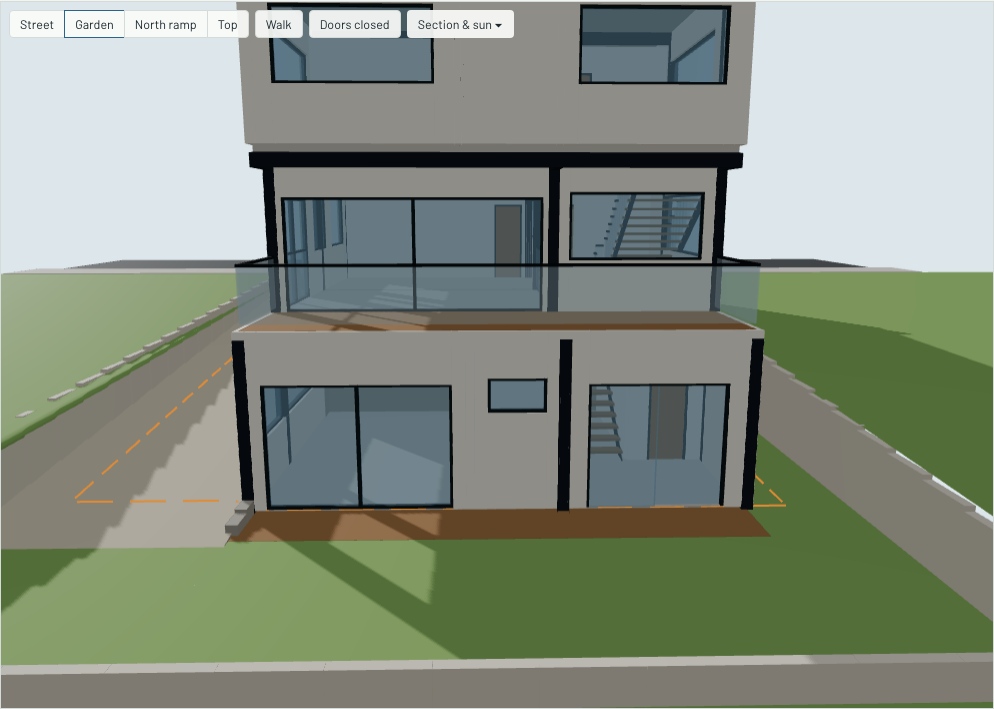
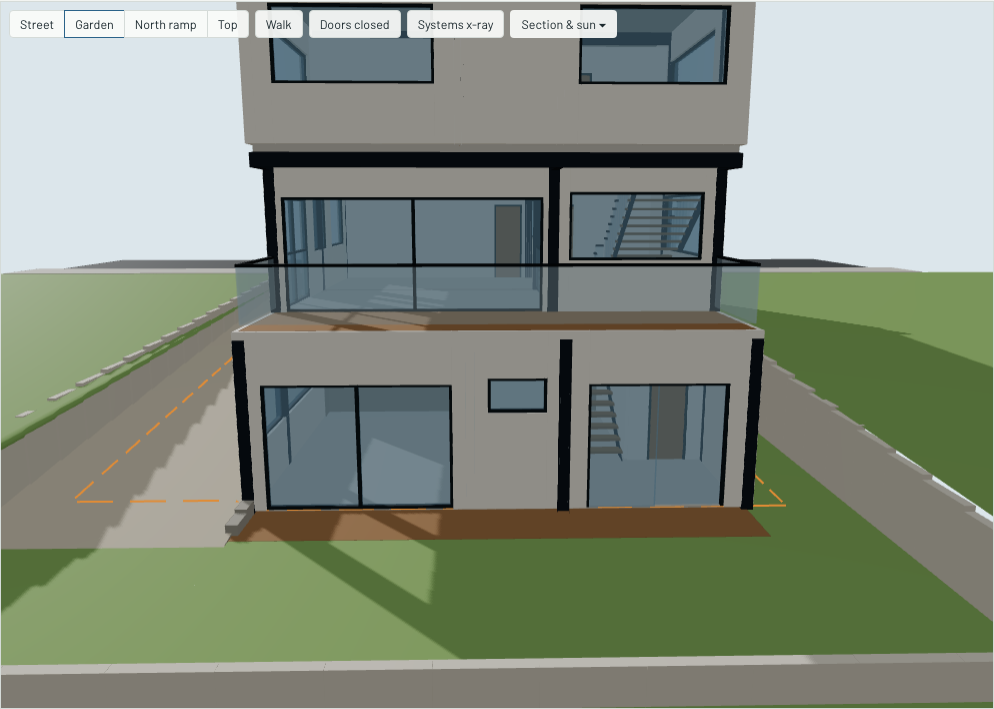
03: plumbing — fixtures, auto-routed sewage, water and rain networks, NBR checks, x-ray, riser diagram, sewer section, schedules
Carry-overs: filled section cuts, stair/retaining-wall note (docs/HANDOFF.md).

Changed region(s): [[0.4366, 0.0, 0.6237, 0.0621]]

diff --git a/e2e/plumbing.spec.ts b/e2e/plumbing.spec.ts
@@ -1,0 +1,69 @@
+import { expect, test, type Page } from '@playwright/test';
+
+type Hook = { frames(): number };
+const ready = (page: Page) => page.waitForFunction(() => ((window as unknown as { __casa3d?: Hook }).__casa3d?.frames() ?? 0) > 10, null, { timeout: 30000 });
+
+test('plumbing on the plan: moving the kitchen sink 1 m re-routes its branch and the checks update', async ({ page }) => {
+  await page.goto('/');
+  await page.getByTestId('plumbing2d').check();
+  await expect(page.locator('[data-fixture="fx-kitchen-sink-01"]')).toBeVisible();
+  await page.evaluate(() => document.fonts.ready);
+  await page.screenshot({ path: 'docs/screens/03.png' });
+  const branch = () => page.locator('line.pipe2d.s-sewage[data-el^="sew-kitchen"]').evaluateAll((ls) => ls.map((l) => [l.getAttribute('x1'), l.getAttribute('y1'), l.getAttribute('x2'), l.getAttribute('y2')].join()).sort().join('|'));
+  const before = await branch();
+  await page.locator('[data-fixture="fx-kitchen-sink-01"]').click();
+  await expect(page.locator('.props h3')).toHaveText('Kitchen sink');
+  await page.getByTestId('fx-y').fill('7.30');
+  await page.getByTestId('fx-y').press('Enter');
+  await expect(page.getByTestId('fx-y')).toHaveValue('7.30');
+  expect(await branch()).not.toBe(before);
+  await page.getByTestId('checks-toggle').click();
+  await page.getByRole('button', { name: 'Whole house' }).click();
+  await expect(page.getByRole('row', { name: /Slope · Kitchen line/ })).toContainText('lowest');
+  await expect(page.getByRole('row', { name: /Pipe size · Kitchen line/ })).toBeVisible();
+  // undo puts the sink back
+  await page.keyboard.press('ControlOrMeta+z');
+  expect(await branch()).toBe(before);
+});
+
+test('drag a fixture on the plan', async ({ page }) => {
+  await page.goto('/');
+  await page.getByTestId('plumbing2d').check();
+  const g = page.locator('[data-fixture="fx-kitchen-sink-01"] circle');
+  const b = (await g.boundingBox())!;
+  await page.mouse.move(b.x + b.width / 2, b.y + b.height / 2);
+  await page.mouse.down();
+  for (let i = 1; i <= 6; i++) await page.mouse.move(b.x + b.width / 2 - i * 6, b.y + b.height / 2 - i * 6);
+  await page.mouse.up();
+  await expect(page.locator('.props h3')).toHaveText('Kitchen sink');
+  expect(Number(await page.getByTestId('fx-x').inputValue())).toBeLessThan(8.33);
+});
+
+test('plumbing window: sewer section, sewer depth 3.5 m makes the lower level pass, schedule CSV', async ({ page }) => {
+  await page.goto('/');
+  await page.getByTestId('plumbing').click();
+  await expect(page.getByTestId('riser')).toBeVisible();
+  await page.getByRole('tab', { name: 'Sewer section' }).click();
+  await expect(page.getByTestId('sewer-section')).toContainText('lift station needed');
+  await page.locator('.modal .box').screenshot({ path: 'docs/screens/03-sewer-section.png' });
+  await page.getByTestId('sewer-depth').fill('3.5');
+  await page.getByTestId('sewer-depth').press('Enter');
+  await expect(page.getByTestId('sewer-section')).toContainText('works');
+  await page.getByRole('tab', { name: 'Schedule' }).click();
+  const [download] = await Promise.all([page.waitForEvent('download'), page.getByTestId('csv').click()]);
+  expect(download.suggestedFilename()).toBe('casa-123-v3-plumbing-schedule.csv');
+  await page.keyboard.press('Escape');
+  await page.getByTestId('checks-toggle').click();
+  await page.getByRole('button', { name: 'Whole house' }).click();
+  await expect(page.getByRole('row', { name: /Lower level drains to the street by gravity/ })).toContainText('gravity works');
+});
+
+test('3D systems x-ray', async ({ page }) => {
+  await page.goto('/');
+  await page.getByTestId('view-3d').click();
+  await ready(page);
+  await page.getByTestId('xray').click(); // turns to an overview from the north-front corner
+  await page.waitForTimeout(900);
+  await page.getByTestId('scene3d').screenshot({ path: 'docs/screens/03-xray.png' });
+  await expect(page.getByTestId('xray')).toHaveAttribute('aria-pressed', 'true');
+});

diff --git a/e2e/v3.spec.ts b/e2e/v3.spec.ts
@@ -3,14 +3,14 @@ import { expect, test, type Page } from '@playwright/test';
 type Hook = { frames(): number; project(x: number, y: number, z: number): [number, number] };
 const ready = (page: Page) => page.waitForFunction(() => ((window as unknown as { __casa3d?: Hook }).__casa3d?.frames() ?? 0) > 10, null, { timeout: 30000 });
 
-test('Version 3 opens by default: no garage, patio and carport, about 78 m², one check to confirm', async ({ page }) => {
+test('Version 3 opens by default: no garage, patio and carport, about 78 m², two checks to confirm', async ({ page }) => {
   await page.goto('/');
   await expect(page.getByRole('button', { name: 'Version 3' })).toHaveAttribute('aria-pressed', 'true');
   await expect(page.locator('text[data-room="Garage"]')).toHaveCount(0);
   await expect(page.getByTestId('gross')).toHaveText(/Version 3 · 78\.\d m² gross/);
   await expect(page.locator('rect.carport')).toHaveCount(1);
   await expect(page.getByTestId('checks-fail')).toHaveText('0 fail');
-  await expect(page.getByTestId('checks-confirm')).toHaveText('1 to confirm');
+  await expect(page.getByTestId('checks-confirm')).toHaveText('2 to confirm'); // carport (02b) and design rainfall (03)
   await page.getByTestId('checks-toggle').click();
   await expect(page.getByRole('row', { name: /Carport in the front setback/ })).toContainText('TO CONFIRM');
   await page.getByTestId('checks-toggle').click();

diff --git a/src/ui/Controls3D.tsx b/src/ui/Controls3D.tsx
@@ -66,7 +66,7 @@ export function Controls3D() {
         </div>
         <button className="small" aria-pressed={walk} onClick={() => set3d({ walk: !walk })} data-testid="walk">{walk ? 'Stop walking' : 'Walk'}</button>
         <button className="small" aria-pressed={doorsOpen} onClick={() => set3d({ doorsOpen: !doorsOpen })}>{doorsOpen ? 'Doors open' : 'Doors closed'}</button>
-        <button className="small" aria-pressed={xray} onClick={() => set3d({ xray: !xray })} data-testid="xray">Systems x-ray</button>
+        <button className="small" aria-pressed={xray} onClick={() => { set3d({ xray: !xray }); if (!xray) lookFrom([17, -9, 11], [4.3, 7.5, 0.5]); }} data-testid="xray">Systems x-ray</button>
         <button className="small ghost" onClick={() => setOpen(!open)} aria-expanded={open}>{open ? 'Less ▴' : 'Section & sun ▾'}</button>
       </div>
       {open && (

diff --git a/src/ui/Panels.tsx b/src/ui/Panels.tsx
@@ -427,7 +427,7 @@ export function ChecksBar() {
           {open ? '▾' : '▸'} Checks
         </button>
         <span className="pill ok">{sum.pass} pass</span>
-        {sum.warn > 0 && <span className="pill warn">{sum.warn} below target</span>}
+        {sum.warn > 0 && <span className="pill warn">{sum.warn} warning{sum.warn > 1 ? 's' : ''}</span>}
         {sum.confirm > 0 && <span className="pill confirm" data-testid="checks-confirm">{sum.confirm} to confirm</span>}
         <span className={'pill ' + (sum.fail ? 'bad' : 'muted')} data-testid="checks-fail">{sum.fail} fail</span>
         <span className="spacer" />

diff --git a/src/ui/PlanView.tsx b/src/ui/PlanView.tsx
@@ -377,7 +377,7 @@ function PlumbingOverlay({ p, level, selection, line, rect, px, py }: { p: impor
   const elev = (l: string) => p.levels.find((x) => x.id === l)?.elevation ?? 0;
   const order = ['LL', 'SL', 'UF', 'roof'];
   const i = order.indexOf(level);
-  const lo = i <= 0 ? -Infinity : elev(level) - 0.7, hi = i + 1 < order.length ? elev(order[i + 1]!) - 0.1 : Infinity;
+  const lo = i <= 0 ? -Infinity : elev(level) - 0.7, hi = i + 1 < order.length ? elev(order[i + 1]!) - 0.5 : Infinity;
   const o: ReactNode[] = [];
   for (const e of p.elements) {
     if (e.type !== 'PipeSegment') continue;

diff --git a/docs/DECISIONS.md b/docs/DECISIONS.md
@@ -37,3 +37,16 @@
 - 2026-09-29 (spec 02b) — New check status "to confirm" for rules only an authority can decide. It is never counted as a pass. Used for "Carport in the front setback".
 - 2026-09-29 (spec 02b) — Street-level gross area = sum of the rooms and the stair (was the outline rectangle; the same for Versions 1 and 2).
 - 2026-09-29 (spec 02b) — The room label goes in the roomiest part of a room (area × narrowest side), not just the biggest part, so it does not land in a 1.2 m passage.
+- 2026-10-01 (spec 03) — Plumbing is designed on Version 3 only (manager's note). Versions 1 and 2 have no fixtures or pipes; the Plumbing window says so.
+- 2026-10-01 (spec 03) — Pipes are generated by a router from the fixtures (right-angled trees to each root: stack, grease trap, lift station, riser, cistern), so moving a fixture re-routes at once and every pipe has DN, material, ends, slope, flow and load. A DN or material changed by hand is kept when the pipes re-route.
+- 2026-10-01 (spec 03) — Sewage elevations are worked out backwards from the minimum slopes (2 % for DN ≤ 75, 1 % for DN 100), so each fixture's branch starts just under its floor (0.45 m below the street level, 0.35 m below the upper floor, 0.25 m below the lower level). Falls are rounded up to 5 mm so the stored slope is never below the design slope. Runs shorter than 0.25 m are fittings and their slope is not checked.
+- 2026-10-01 (spec 03) — Two soil stacks at the upper-floor overlay positions (x 3.29, y 6.52 and 10.99) run through the street level; the street-level stack overlay positions were within 0.1 m of them and are merged. The collector runs from the rear stack along x 3.29, in the lower-level ceiling then the crawlspace, out of the front of the house, through inspection boxes at the house front and the property line, to the street sewer 6.5 m into the street.
+- 2026-10-01 (spec 03) — Inspection boxes are placed by the router at every outside turn or junction (the kitchen line joins the collector under the patio) and before the property exit. The cover rule (0.5 m) is measured from the finished surface, including the patio fill; drops happen inside the boxes.
+- 2026-10-01 (spec 03) — Lower-level gravity check: leaves the house at LL floor −0.35 (−2.85), 1 % to the sewer, must arrive at least 0.30 m above the sewer bottom (same reasoning as the prototype: gravity works if the sewer is about 3.4 m deep). It shows "fail" at 3.00 m on purpose; the lift-station check passes because the lift station is there.
+- 2026-10-01 (spec 03) — Fixture positions come from the plan-v2 overlays relative to each room (as the prototype draws them). The kitchen sink keeps its V2 position exactly; the street-level WC fixtures move with the WC room, which moved 0.6 m in Version 3. Added basins in the three upper bathrooms and a dishwasher (not in the overlay).
+- 2026-10-01 (spec 03) — Water: meter in the front boundary wall, feed underground and up a riser beside the stair to two 1,000 L tanks over the stair; distribution riser at x 0.20, y 8.70 with branches in each floor's ceiling; heat-pump heater on the entry roof feeding a hot riser beside it. Pressure check uses the static head from the tanks' lowest water level; upper-floor showers are counted with the pressure pump (+15 m).
+- 2026-10-01 (spec 03) — Rain: two main-roof drains (44.2 m² each, eaves included), entry roof (12.8 m²) and carport (33.4 m²) to the cistern; the veranda (20.6 m²) drains to the garden trench. 154 m² in all, as in the brief. Pipe DN by NBR 10844 table 4 (n = 0.011).
+- 2026-10-01 (spec 03) — New warning "Underground pipes are buried" (0.30 m cover). It warns on purpose today (rain collector near the street, see Q10).
+- 2026-10-01 (spec 03) — Section cut faces are filled by exact caps computed from the 3D boxes (no stencil tricks), so they also work for several cuts at once.
+- 2026-10-01 (spec 03) — Elements can carry notes for the architect and engineers; the stair / retaining-wall crossing note is added automatically wherever a flight passes below the top of a retaining wall. Listed in docs/HANDOFF.md.
+- 2026-10-01 (spec 03) — Turning on the 3D x-ray moves the camera to an overview from the north-front corner, where all five networks are visible.

diff --git a/docs/STATUS.md b/docs/STATUS.md
@@ -2,6 +2,50 @@
 
 _Updated by Claude Code after every spec. The manager reads this file._
 
+## 2026-10-01 — Spec 03 done: plumbing (Version 3)
+
+### What was built
+- **Carry-overs:** section cuts are now filled in dark (walls and slabs read clearly). The note on the stair / retaining-wall crossing is on both elements and in the new `docs/HANDOFF.md`. (South passage 1.50 m was done in 02b.)
+- **Fixtures:** 41 fixtures and pieces of equipment from the overlays and the brief: toilets, basins, showers, kitchen sink, dishwasher, laundry tank, washer, floor drain, garden tap, grease trap, inspection boxes, lift station, backflow valve, water meter, 2 roof tanks, pressure pump, heat-pump water heater, roof drains, rain cistern, infiltration trench and sump pump. Each has its DN, fixture units and water weight.
+- **Networks,** about 180 pipes, each with DN, material (PVC, CPVC for hot), start and end, slope, flow and load:
+  - **Sewage:** branches → 2 soil stacks (with vents through the roof) → collector in the crawlspace → inspection boxes → street sewer. The kitchen goes through the grease trap. The lower level drains to the lift station, which pumps up through a backflow valve.
+  - **Water:** meter → roof tanks → riser → each floor; hot from the heat pump.
+  - **Rain:** roofs (154 m²) → cistern → overflow to the street gutter. The veranda drains to the garden trench, and the garden sump pump discharges to the street.
+- **Moving a fixture re-routes its pipes at once**, by dragging it on the plan (tick "Plumbing" above the plan) or typing x / y in its properties. A pipe's DN or material can be changed by hand and is kept.
+- **Checks (NBR 8160 / 5626 / 7198 / 10844):** slopes, DN by fixture units, vents, inspection boxes, grease trap, the street connection, water pressure at the worst fixture, water and rain pipe sizes, the overflow, and the design rainfall (TO CONFIRM).
+- **The lower-level problem, live:** at 3.00 m the lower level's gravity check **fails** (it would arrive at −3.04, the sewer needs ≥ −2.70), so the lift station is required and its check passes. Enter the sewer depth SEMAE gives (Plumbing → Sewer section or Street services). At 3.50 m it turns to pass.
+- **Views:**
+  - pipes in system colours (cold blue, hot red, sewage brown, vent grey, rain cyan);
+  - 3D **Systems x-ray** (building ghosted, camera moves to an overview);
+  - **2D overlay** per floor;
+  - a **Plumbing** window (toolbar) with an isometric **riser diagram**, the **sewer section** to the street with every invert, the **schedule** (metres per DN and material, elbows and tees, fixtures) with **CSV download**, and the **street services** (sewer depth, rainfall).
+
+### How to see it
+- Double-click **`Open Casa 123.command`**. On the plan, tick **Plumbing**; in 3D, click **Systems x-ray**; open **Plumbing** in the left toolbar.
+- Screenshots: `docs/screens/03.png` (plan with plumbing), `03-xray.png`, `03-sewer-section.png`.
+
+### Tests
+- `npm test`: 70 unit tests (12 new for plumbing, including both acceptance cases: moving the kitchen sink 1 m, and sewer depth 3.5 m).
+- `npm run e2e`: 20 browser tests (4 new: move the sink by typing and by dragging, sewer section and depth, CSV, x-ray).
+- `npm run build` passes.
+
+### Checks on Version 3 now
+- 1 fail, on purpose: the lower level cannot drain by gravity at 3.00 m. That is why the lift station is there, and that check passes.
+- 1 warning: rain pipes near the street are shallow (Q10).
+- 2 to confirm: the carport in the setback, and the design rainfall.
+
+### Not done yet / known gaps
+- Pipes can be re-sized and re-materialled by hand, but not re-drawn point by point. Geometry always comes from the router.
+- The pressure pump boosts the upper-floor showers in the pressure check, but it is not drawn as a separate pressurised branch.
+- Moving a wall does not re-route the pipes; moving any fixture does.
+- Versions 1 and 2 have no plumbing.
+
+### Open questions
+Q10 (shallow rain pipes near the street), Q11 (basins and dishwasher added), Q12 (heater on the entry roof). Q7–Q9 from 02b are still open.
+
+### Next
+Spec 04 — electrical (ready).
+
 ## 2026-09-29 — Spec 02b done: Version 3, garage out, carport in front
 
 ### What was built

diff --git a/docs/HANDOFF.md b/docs/HANDOFF.md
@@ -1,0 +1,16 @@
+# Hand-off to the architect and engineers
+
+_Items the app cannot decide. Each one is also a note on the element in the model (properties panel, "Notes for the architect and engineers")._
+
+## Structure
+1. **Down flight over the cut line (LL-wall-01, stair-02).** In Versions 2 and 3 the down flight passes over the cut line (y 8.50), x 1.70–3.20. The ground there is at about −1.00, so the retained soil stays well below the flight (tread about +0.23 at y 8.50). Under the stair opening the lower-level front wall stops under the flight soffit, with a lintel beam over it. To be detailed by the structural engineer. (QUESTIONS Q4)
+2. Column, beam and footing sizes in the model are placeholders (W200 columns, W250 beams, 1.0 m pads). Real sizes come from the structural design (NBR 8800) and the SPT soil borings (NBR 6122).
+
+## Plumbing (spec 03)
+3. **Lower level needs the lift station** unless SEMAE confirms the street sewer is at least about 3.4 m deep. The app recomputes when the depth is entered (Plumbing → Street services).
+4. **Rain pipes and the cistern overflow near the street are shallow.** The front yard is lower than the street, so a gravity overflow to the street gutter keeps the rain collector close to the surface between the house and the cistern. Options: a raised entry path over the pipes, a pumped overflow, or the overflow to an infiltration well. (QUESTIONS Q10)
+5. Routing, DN, slopes and pressures in the app are a design check, not the executive project. The plumbing engineer signs the project (ART/RRT).
+
+## Site
+6. Carport in the front setback — to confirm with the Prefeitura (LC 474/2025). (Q9)
+7. Design rainfall 150 mm/h — to confirm from the local rainfall curve.

diff --git a/docs/QUESTIONS.md b/docs/QUESTIONS.md
@@ -41,3 +41,12 @@ The patio steps (x 3.5–4.7) come down at the house end of parking bay 1. When 
 
 ## Q9 (2026-09-29, spec 02b) — Carport columns at the street line
 The front carport columns stand 0.15 m inside the street boundary, and the gutter overhangs to the boundary. If the Prefeitura requires the carport to stay back from the boundary, the bays get shorter than 5.00 m unless the house moves further back. Linked to the "to confirm" check.
+
+## Q10 (2026-10-01, spec 03) — Rain overflow to the street is too shallow to bury
+The front yard is 0.1–0.4 m lower than the street, so for the cistern overflow to reach the street gutter by gravity, the rain collector between the house and the cistern runs only 0–0.1 m below the surface (the "Underground pipes are buried" check warns). Options: (a) raise the entry path about 0.3 m over the pipes, (b) pump the overflow, (c) overflow into an infiltration well on the lot instead of the street. **Which one?**
+
+## Q11 (2026-10-01, spec 03) — Fixtures added that were not in the overlay
+The prototype overlay has no basins in the three upper bathrooms and no dishwasher. I added them (basins at the wall next to the stack, dishwasher next to the sink). **Confirm, or say where they go.**
+
+## Q12 (2026-10-01, spec 03) — Heat-pump heater on the entry roof
+I put the 300 L heat-pump water heater on the entry roof (+3.70), outdoors and close to the bathrooms, fed by gravity from the roof tanks. The brief does not say where it goes. **Confirm the place.**

diff --git a/docs/specs/03-plumbing.md b/docs/specs/03-plumbing.md
@@ -1,5 +1,5 @@
 # 03 — Plumbing: water, hot water, sewage, rainwater
-Status: in progress
+Status: done (2026-10-01)
 
 > Manager note (2026-09-29): Build on **Version 3** (spec 02b). Item 0.1 is done in 02b. The kitchen sink branch and the WC keep their V2 positions.
 
